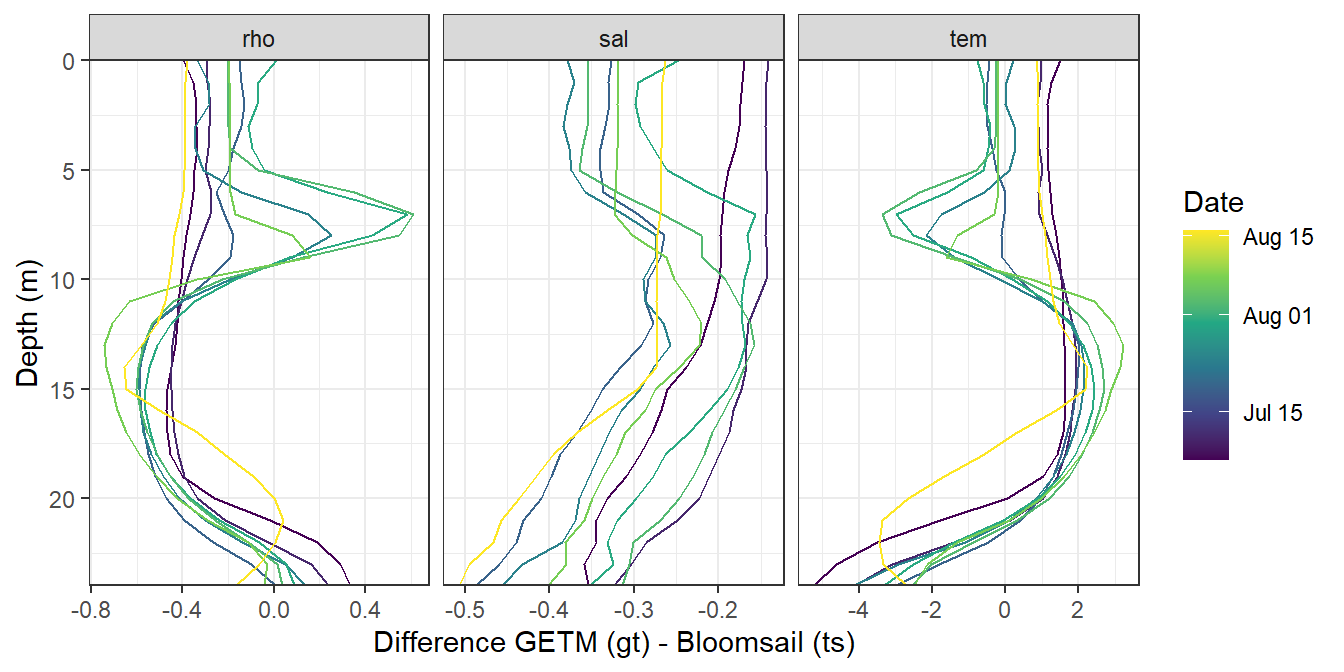
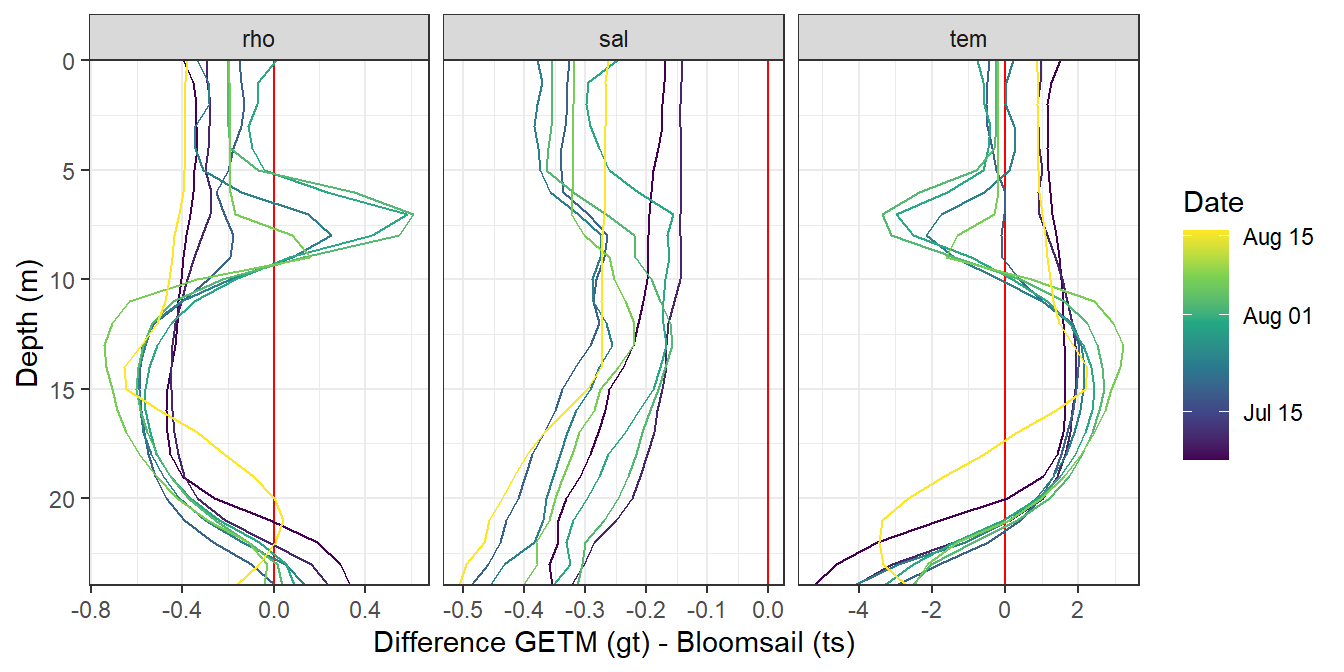
Build site.

Changed region(s): [[0.3438, 0.0938, 0.5938, 0.9375]]

diff --git a/docs/Finnmaid+GETM.html b/docs/Finnmaid+GETM.html
@@ -554,10 +554,10 @@ This reproducible <a href="http://rmarkdown.rstudio.com">R Markdown</a> analysis
 <div class="panel panel-default">
 <div class="panel-heading">
 <p class="panel-title">
-<a data-toggle="collapse" data-parent="#workflowr-checks" href="#strongRepositoryversionstrongahrefhttpsgithubcomjensdanielmuellerBloomSailtree614ab28ace52b25e8c41050ce5e1cf7d882dfd5btargetblank614ab28a"> <span class="glyphicon glyphicon-ok text-success" aria-hidden="true"></span> <strong>Repository version:</strong> <a href="https://github.com/jens-daniel-mueller/BloomSail/tree/614ab28ace52b25e8c41050ce5e1cf7d882dfd5b" target="_blank">614ab28</a> </a>
+<a data-toggle="collapse" data-parent="#workflowr-checks" href="#strongRepositoryversionstrongahrefhttpsgithubcomjensdanielmuellerBloomSailtreeee9f48e6d695e149bd1b9e4c65fc854dc5a6de75targetblankee9f48ea"> <span class="glyphicon glyphicon-ok text-success" aria-hidden="true"></span> <strong>Repository version:</strong> <a href="https://github.com/jens-daniel-mueller/BloomSail/tree/ee9f48e6d695e149bd1b9e4c65fc854dc5a6de75" target="_blank">ee9f48e</a> </a>
 </p>
 </div>
[2 lines of base64/hex data omitted]
 <div class="panel-body">
 <p>
 Great! You are using Git for version control. Tracking code development and connecting the code version to the results is critical for reproducibility. The version displayed above was the version of the Git repository at the time these results were generated. <br><br> Note that you need to be careful to ensure that all relevant files for the analysis have been committed to Git prior to generating the results (you can use <code>wflow_publish</code> or <code>wflow_git_commit</code>). workflowr only checks the R Markdown file, but you know if there are other scripts or data files that it depends on. Below is the status of the Git repository when the results were generated:
@@ -724,12 +724,14 @@ gt_3d_long %&gt;%
 <p><img src="figure/Finnmaid+GETM.Rmd/gt_profiles_salt_temp_age_rho-1.png" width="672" style="display: block; margin: auto;" /></p>
 <div id="comparison-bloomsail" class="section level3">
 <h3><span class="header-section-number">2.1.1</span> Comparison BloomSail</h3>
+<p>Vertical, 1m-gridded BloomSail CTD profiles were used for comparison with GETM results. Merging both data sets required the BloomSail profiles to be shifted upward by 0.5m. Note that neither sampling location nor time match exactly.</p>
 <pre class="r"><code>ts_profiles_ID &lt;-
   read_csv(here::here(&quot;Data/_merged_data_files&quot;, &quot;ts_profiles_ID.csv&quot;))
 
 ts_profiles_ID &lt;- ts_profiles_ID %&gt;% 
   mutate(rho = swSigma(salinity = sal, temperature = tem, pressure = dep/10),
          dep = dep - 0.5)</code></pre>
+<p>GETM results were linearly interpolated to the mean BloomSail time stamp.</p>
 <pre class="r"><code>ts_gt_3d &lt;- full_join(gt_3d %&gt;% select(date_time, dep, sal = salt, tem = temp, rho),
                       ts_profiles_ID %&gt;% select(date_time = date_time_ID,
                                                 dep, sal, tem, rho),
@@ -754,7 +756,12 @@ ts_gt_3d_long %&gt;%
   scale_y_reverse(expand = c(0,0), name=&quot;Depth (m)&quot;)+
   scale_color_viridis_c(name=&quot;Date&quot;, trans = &quot;time&quot;)+
   facet_grid(source~var, scales = &quot;free_x&quot;)</code></pre>
-<p><img src="figure/Finnmaid+GETM.Rmd/gt_ts_profiles_salt_temp_rho-1.png" width="672" style="display: block; margin: auto;" /></p>
+<div class="figure" style="text-align: center">
+<img src="figure/Finnmaid+GETM.Rmd/gt_ts_profiles_salt_temp_rho-1.png" alt="STD profiles modeled with GETM (upper panels, gt) and measured during BloomSail campaign (lower panels, ts)" width="672" />
+<p class="caption">
+STD profiles modeled with GETM (upper panels, gt) and measured during BloomSail campaign (lower panels, ts)
+</p>
+</div>
 <pre class="r"><code>ts_gt_3d &lt;- ts_gt_3d_long %&gt;% 
   pivot_wider(values_from = &quot;value&quot;, names_from = &quot;source&quot;) %&gt;% 
   mutate(value_diff = gt - ts)
@@ -763,6 +770,7 @@ ts_gt_3d %&gt;%
   ggplot(aes(value_diff, dep,
              col=date_time,
              group=date_time))+
+  geom_vline(xintercept = 0, col=&quot;red&quot;)+
   geom_path()+
   scale_y_reverse(expand = c(0,0), name=&quot;Depth (m)&quot;)+
   scale_color_viridis_c(name=&quot;Date&quot;, trans = &quot;time&quot;)+
@@ -1390,23 +1398,23 @@ loaded via a namespace (and not attached):
 [22] rvest_0.3.5          xml2_1.2.2           labeling_0.3        
 [25] scales_1.0.0         checkmate_1.9.4      digest_0.6.22       
 [28] foreign_0.8-70       rmarkdown_2.0        pkgconfig_2.0.3     
-[31] htmltools_0.4.0      dbplyr_1.4.2         maps_3.3.0          
-[34] rlang_0.4.5          readxl_1.3.1         rstudioapi_0.10     
-[37] generics_0.0.2       jsonlite_1.6         RCurl_1.95-4.12     
-[40] magrittr_1.5         Formula_1.2-3        dotCall64_1.0-0     
-[43] Matrix_1.2-14        Rcpp_1.0.2           munsell_0.5.0       
-[46] lifecycle_0.1.0      stringi_1.4.3        yaml_2.2.0          
-[49] plyr_1.8.4           grid_3.5.0           maptools_0.9-8      
-[52] formula.tools_1.7.1  promises_1.1.0       crayon_1.3.4        
-[55] lattice_0.20-35      haven_2.2.0          hms_0.5.2           
-[58] zeallot_0.1.0        knitr_1.26           pillar_1.4.2        
-[61] reprex_0.3.0         glue_1.3.1           evaluate_0.14       
-[64] data.table_1.12.6    modelr_0.1.5         operator.tools_1.6.3
-[67] vctrs_0.2.0          spam_2.3-0.2         httpuv_1.5.2        
-[70] cellranger_1.1.0     gtable_0.3.0         assertthat_0.2.1    
-[73] xfun_0.10            broom_0.5.3          later_1.0.0         
-[76] viridisLite_0.3.0    memoise_1.1.0        fields_9.9          
-[79] workflowr_1.6.0      ellipsis_0.3.0      </code></pre>
+[31] htmltools_0.4.0      highr_0.8            dbplyr_1.4.2        
+[34] maps_3.3.0           rlang_0.4.5          readxl_1.3.1        
+[37] rstudioapi_0.10      generics_0.0.2       jsonlite_1.6        
+[40] RCurl_1.95-4.12      magrittr_1.5         Formula_1.2-3       
+[43] dotCall64_1.0-0      Matrix_1.2-14        Rcpp_1.0.2          
+[46] munsell_0.5.0        lifecycle_0.1.0      stringi_1.4.3       
+[49] yaml_2.2.0           plyr_1.8.4           grid_3.5.0          
+[52] maptools_0.9-8       formula.tools_1.7.1  promises_1.1.0      
+[55] crayon_1.3.4         lattice_0.20-35      haven_2.2.0         
+[58] hms_0.5.2            zeallot_0.1.0        knitr_1.26          
+[61] pillar_1.4.2         reprex_0.3.0         glue_1.3.1          
+[64] evaluate_0.14        data.table_1.12.6    modelr_0.1.5        
+[67] operator.tools_1.6.3 vctrs_0.2.0          spam_2.3-0.2        
+[70] httpuv_1.5.2         cellranger_1.1.0     gtable_0.3.0        
+[73] assertthat_0.2.1     xfun_0.10            broom_0.5.3         
+[76] later_1.0.0          viridisLite_0.3.0    memoise_1.1.0       
+[79] fields_9.9           workflowr_1.6.0      ellipsis_0.3.0      </code></pre>
 </div>
 </div>
 
